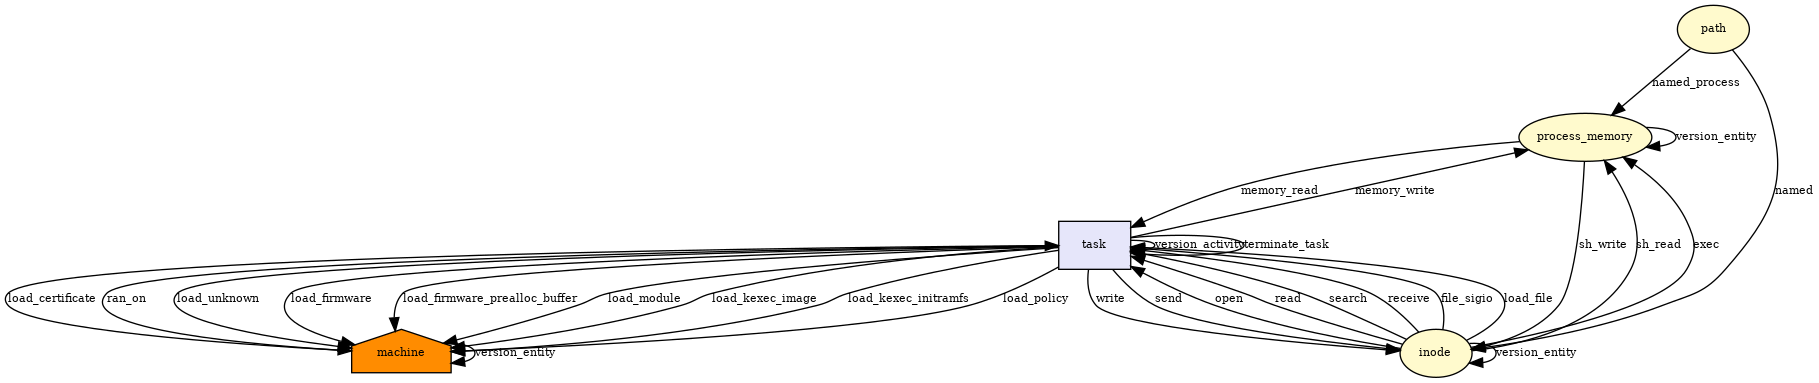
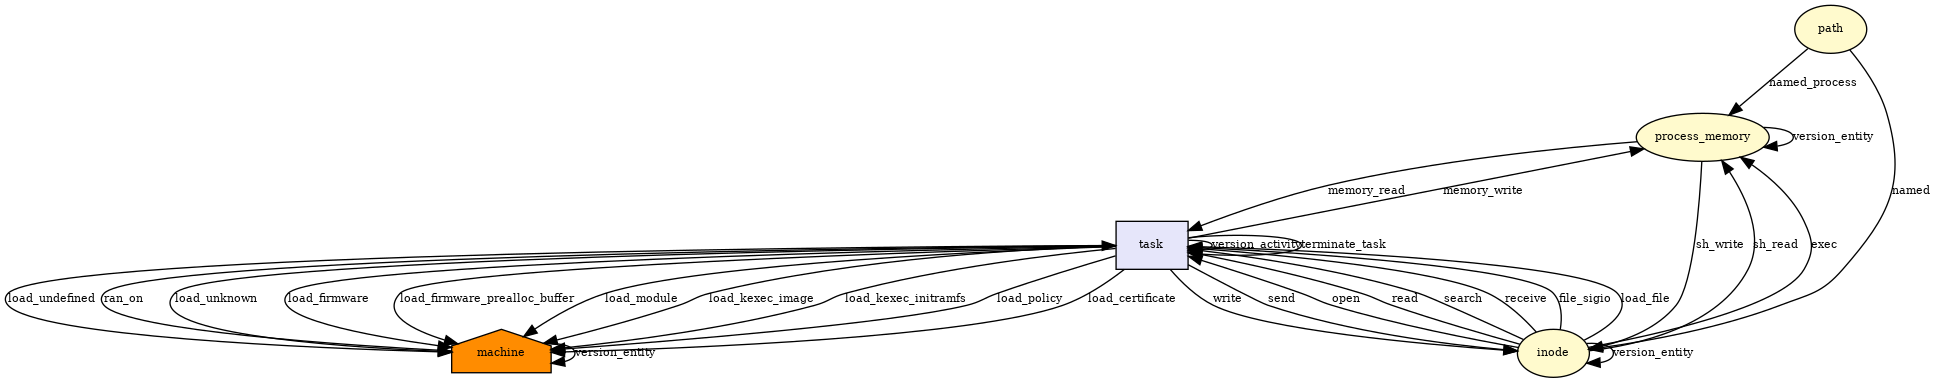
RL_LOAD_UNDEFINED

diff --git a/security/provenance/type.c b/security/provenance/type.c
@@ -107,6 +107,7 @@ static const char RL_STR_LOAD_KEXEC_IMAGE[] = "load_kexec_image";               
 static const char RL_STR_LOAD_KEXEC_INITRAMFS[] = "load_kexec_initramfs";                               // load file into kernel
 static const char RL_STR_LOAD_POLICY[] = "load_policy";                                                 // load file into kernel
 static const char RL_STR_LOAD_CERTIFICATE[] = "load_certificate";                                       // load file into kernel
+static const char RL_STR_LOAD_UNDEFINED[] = "load_undefined";                                           // load file into kernel
 
 /* node string name */
 static const char ND_STR_UNKNOWN[] = "unknown";                                 // unkown node type should normally not appear
@@ -324,6 +325,8 @@ const char *relation_str(uint64_t type)
 		return RL_STR_LOAD_POLICY;
 	case RL_LOAD_CERTIFICATE:
 		return RL_STR_LOAD_CERTIFICATE;
+	case RL_LOAD_UNDEFINED:
+		return RL_STR_LOAD_UNDEFINED;
 	case RL_RAN_ON:
 		return RL_STR_RAN_ON;
 	default:
@@ -426,6 +429,7 @@ uint64_t relation_id(const char *str)
 	MATCH_AND_RETURN(str, RL_STR_LOAD_KEXEC_INITRAMFS, RL_LOAD_KEXEC_INITRAMFS);
 	MATCH_AND_RETURN(str, RL_STR_LOAD_POLICY, RL_LOAD_POLICY);
 	MATCH_AND_RETURN(str, RL_STR_LOAD_CERTIFICATE, RL_LOAD_CERTIFICATE);
+	MATCH_AND_RETURN(str, RL_STR_LOAD_UNDEFINED, RL_LOAD_UNDEFINED);
 	MATCH_AND_RETURN(str, RL_STR_RAN_ON, RL_RAN_ON);
 	return 0;
 }

diff --git a/include/uapi/linux/provenance_types.h b/include/uapi/linux/provenance_types.h
@@ -148,6 +148,7 @@
 #define RL_LOAD_KEXEC_INITRAMFS                 (RL_INFLUENCED | (0x0000000000000001ULL << 5))
 #define RL_LOAD_POLICY                          (RL_INFLUENCED | (0x0000000000000001ULL << 6))
 #define RL_LOAD_CERTIFICATE                     (RL_INFLUENCED | (0x0000000000000001ULL << 7))
+#define RL_LOAD_UNDEFINED                               (RL_INFLUENCED | (0x0000000000000001ULL << 8))
 
 /* ASSOCIATED  SUBTYPES */
 #define RL_RAN_ON                               (RL_ASSOCIATED | (0x0000000000000001ULL))

diff --git a/security/provenance/hooks.c b/security/provenance/hooks.c
@@ -1148,7 +1148,8 @@ static int provenance_kernel_read_file(struct file *file
 	case READING_X509_CERTIFICATE:
 		rc = record_influences_kernel(RL_LOAD_CERTIFICATE, iprov, tprov, file);
 		break;
-	default:
+	default: // should not happen
+		rc = record_influences_kernel(RL_LOAD_UNDEFINED, iprov, tprov, file);
 		break;
 	}
 	spin_unlock_irqrestore(prov_lock(iprov), irqflags);

diff --git a/include/uapi/linux/provenance.h b/include/uapi/linux/provenance.h
@@ -31,7 +31,7 @@
 	"."xstr (CAMFLOW_VERSION_MINOR)					\
 	"."xstr (CAMFLOW_VERSION_PATCH)					\
 
-#define CAMFLOW_COMMIT "b9cb3205dcf05680f155701f891f535f6778f167"
+#define CAMFLOW_COMMIT "071e407a9556ac0180374a7e047c0d1fa342926e"
 
 #define PROVENANCE_HASH                 "sha256"
 

diff --git a/docs/RELATIONS.md b/docs/RELATIONS.md
@@ -97,3 +97,4 @@ RL_LOAD_KEXEC_IMAGE|load_kexec_image|load file into kernel|
 RL_LOAD_KEXEC_INITRAMFS|load_kexec_initramfs|load file into kernel|
 RL_LOAD_POLICY|load_policy|load file into kernel|
 RL_LOAD_CERTIFICATE|load_certificate|load file into kernel|
+RL_LOAD_UNDEFINED|load_undefined|load file into kernel|

diff --git a/CHANGES.md b/CHANGES.md
@@ -45,6 +45,8 @@
 
 ### v0.5.4
 ```
+- Add RL_STR_LOAD_UNDEFINED relation. 
+- Ensure sk_alloc_security does not generate provenance.
 - Ensure inode_setxattr does not generate provenance.
 - Ensure inode_getsecurity does not generate provenance.
 - Associate task_id with relations.
